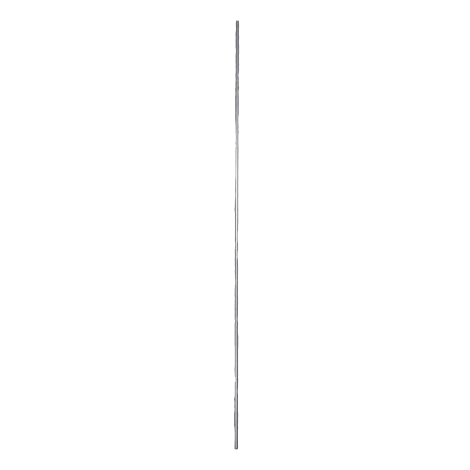
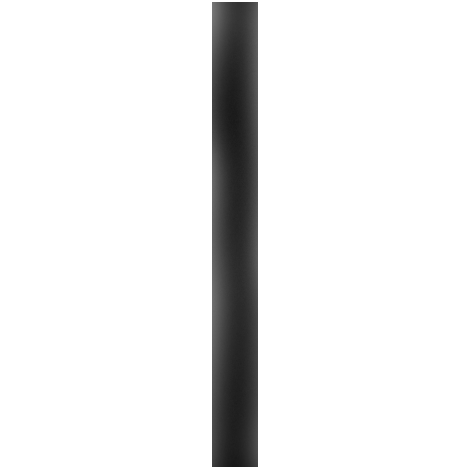
baby pong 1

Changed region(s): [[0.4468, 0.0, 0.566, 1.0]]

diff --git a/src/Tableau1.js b/src/Tableau1.js
@@ -10,6 +10,7 @@ class Tableau1 extends Phaser.Scene{
         this.load.image('flame',"assets/flame.png");
         this.load.image('red',"assets/red.png");
         this.load.image('blue',"assets/blue.png");
+        this.load.image('tige',"assets/tige.png");
     }
     create(){
         this.hauteur=500;
@@ -39,6 +40,19 @@ class Tableau1 extends Phaser.Scene{
         this.bas.setDisplaySize(this.largeur,20);
         this.bas.body.setAllowGravity(false);
         this.bas.setImmovable(true);
+
+        //Tiges du baby foot
+        this.tige=this.add.sprite(-25,18,'tige').setOrigin(0,0);
+        this.tige.setDisplaySize(100,465);
+
+        this.tige2=this.add.sprite(275,18,'tige').setOrigin(0,0);
+        this.tige2.setDisplaySize(100,465);
+
+        this.tige3=this.add.sprite(625,18,'tige').setOrigin(0,0);
+        this.tige3.setDisplaySize(100,465);
+
+        this.tige4=this.add.sprite(925,18,'tige').setOrigin(0,0);
+        this.tige4.setDisplaySize(100,465);
 
         //raquettes gauches
 
